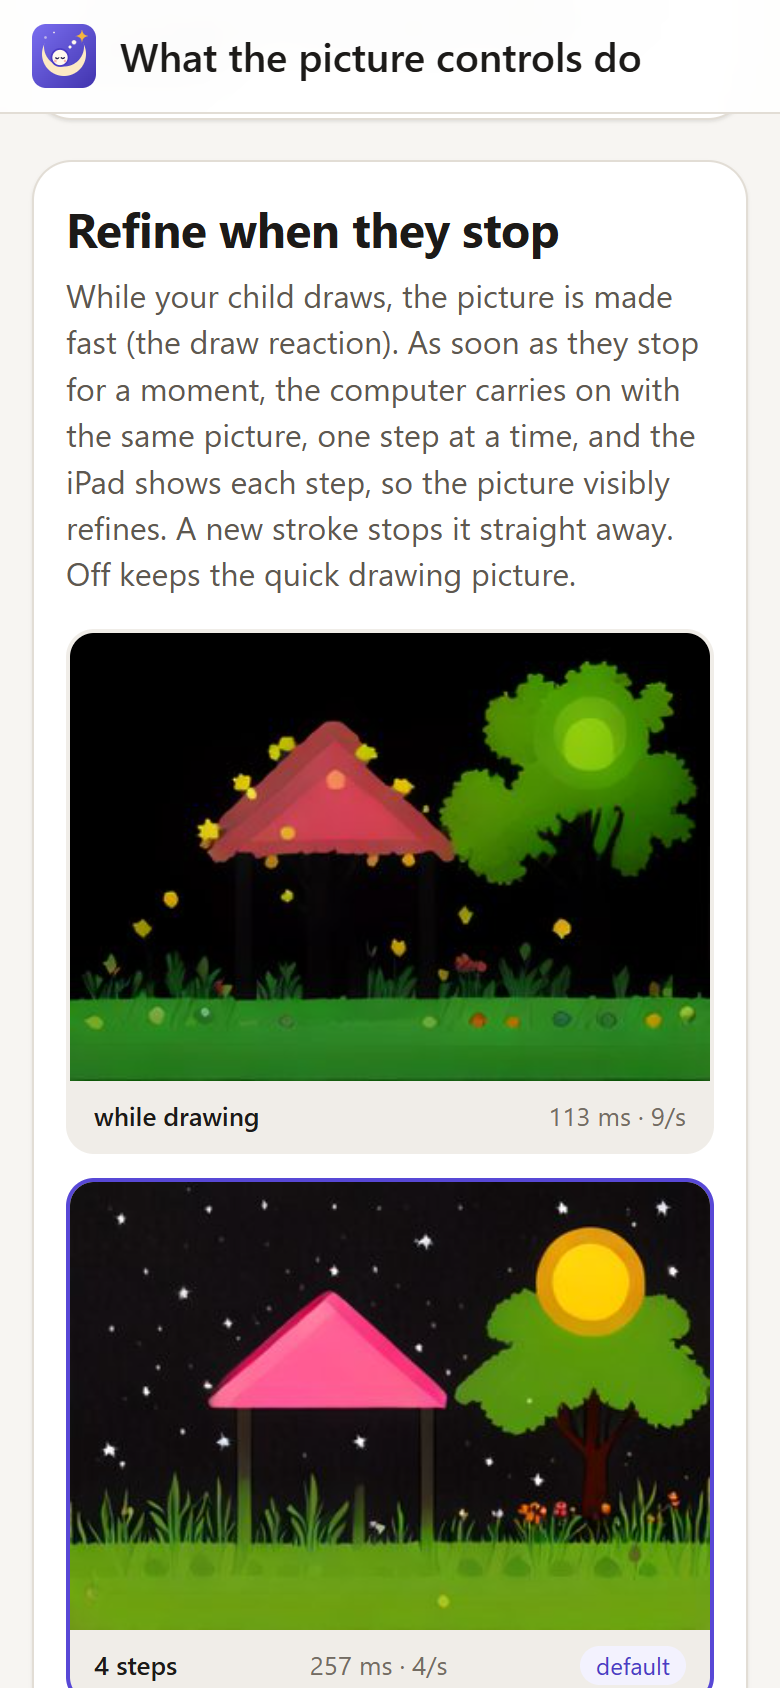
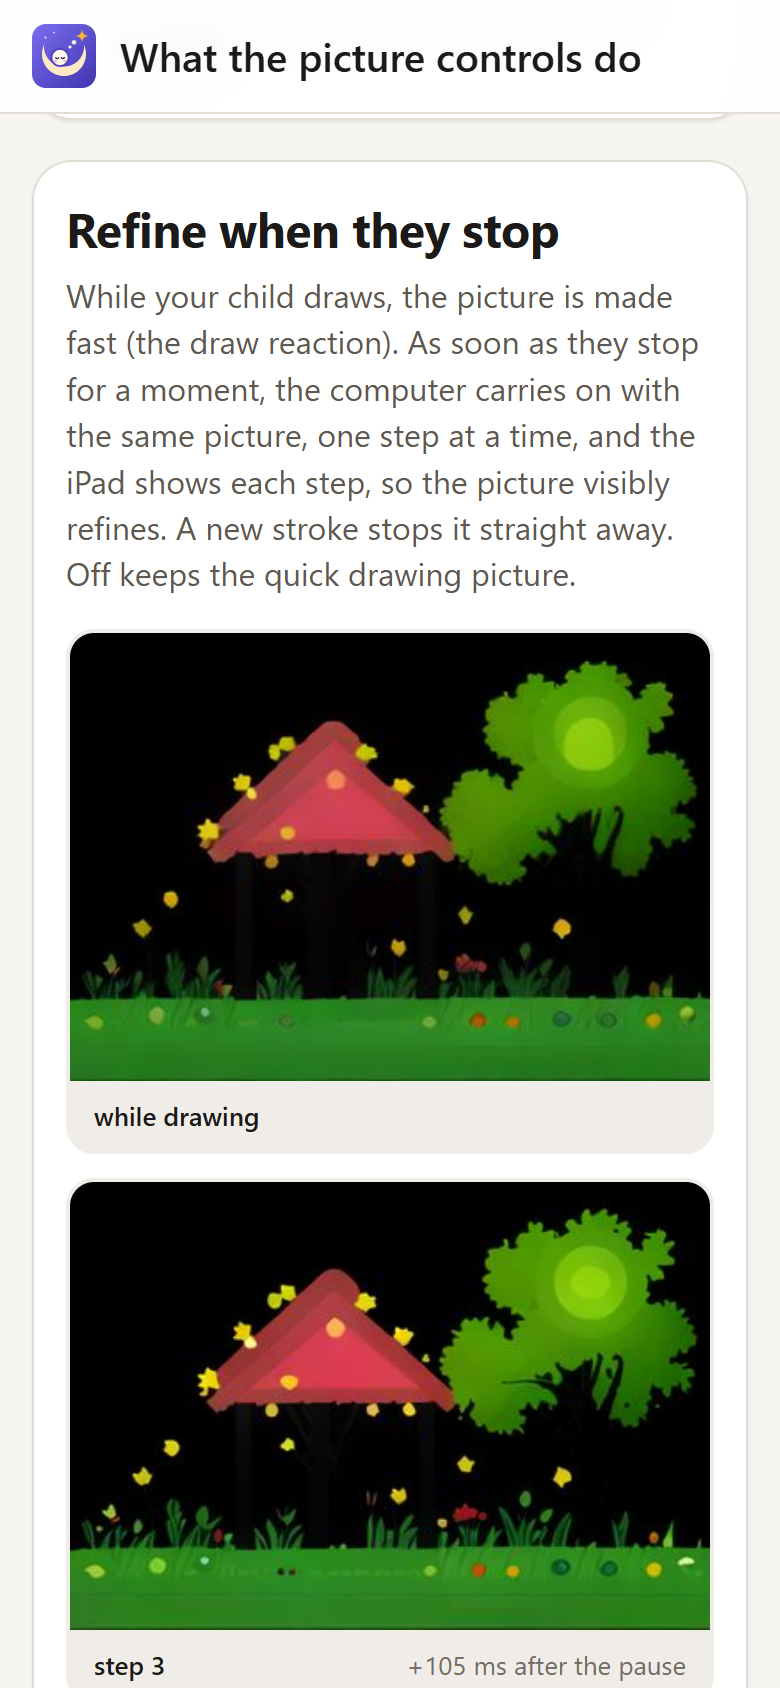
Re-shoot help screenshots with the anchored refine strip

diff --git a/docs/showcase/slides.md b/docs/showcase/slides.md
@@ -130,11 +130,11 @@ a backlog.
 **Image:** diagram "Draw fast, then refine" from [architecture.md](architecture.md), plus
 `screenshots/desktop-help-refine.png`
 
-**Speaker notes:** Caption the help strip truthfully: it shows the *earlier* "continue the
-path" refinement, the same drawing while drawing and at 4, 8, 12 and 20 steps, with the
-cumulative time for each. It is not the current model. Use it to set up the next slide:
-look how at 8+ steps the scene starts to *change*. That was the problem the anchored
-model solves.
+**Speaker notes:** The help strip shows the current anchored refinement: the picture while
+drawing, then steps 3, 5 and 7 (about 0.1, 0.2 and 0.3 s after the pause). The scene stays
+put and gains detail. For the contrast with the earlier "continue the path" approach, which
+repainted the scene after about 6 steps, show `docs/research/img/refine-cat.png` (row 1 vs
+row "anchored").
 
 ---
 

diff --git a/docs/showcase/captions.md b/docs/showcase/captions.md
@@ -112,10 +112,9 @@ in these shots were made with AI upscale on (2x); the app's default is off.
 
 - **Short:** Every setting explained with real pictures.
 - **Long:** Each control on the parent page has a help section with example pictures made
-  on the PC. This strip shows the earlier "continue the path" refinement: the same drawing
-  while drawing and after 4, 8, 12 and 20 steps, with the cumulative time for each. Past
-  about 6 steps the scene changes, which is why the current default is the anchored
-  model. Below it, the AI upscale zoomed in.
+  on the PC. This strip shows the refinement: the picture while drawing, then after
+  steps 3, 5 and 7 of the anchored detail ladder (about 0.1, 0.2 and 0.3 s after the
+  pause). The scene stays the same; only detail is added. Below it, the AI upscale zoomed in.
 
 ## Before/after pairs (`screenshots/examples/`)
 

diff --git a/docs/showcase/README.md b/docs/showcase/README.md
@@ -6,9 +6,9 @@ actual app, driven by scripts. Nothing is mocked up by hand.
 
 **Settings used for the screenshots:** AI upscale x2 was switched on, so the refined
 pictures are 1280×896. The app's default is upscale off; say "with AI upscale on" when
-showing them. The help-page shots (`*-help-refine.png`) still show the earlier "continue
-the path" refinement strip (4/8/12/20 steps, with cumulative times), not the current
-anchored model; caption them that way until they are regenerated.
+showing them. The help-page refine strip (`*-help-refine.png`) shows the current anchored
+model: the drawing picture, then steps 3, 5 and 7, each labelled with its time after the
+pause.
 
 ## What is in it
 
